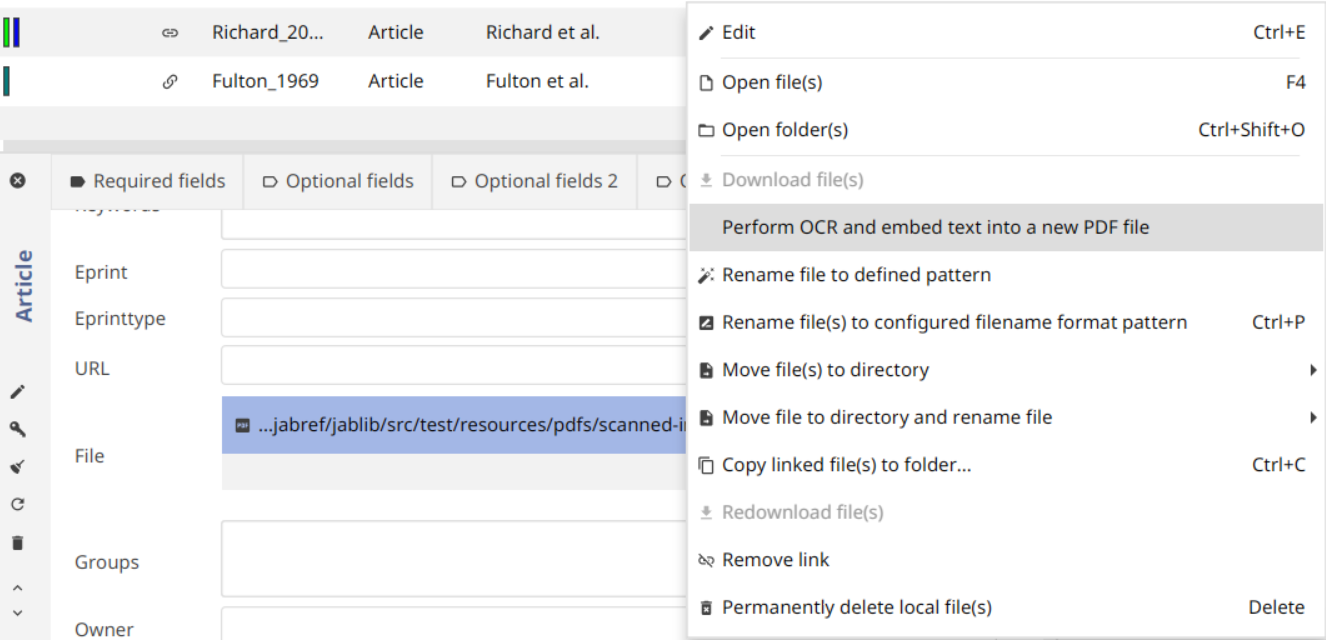
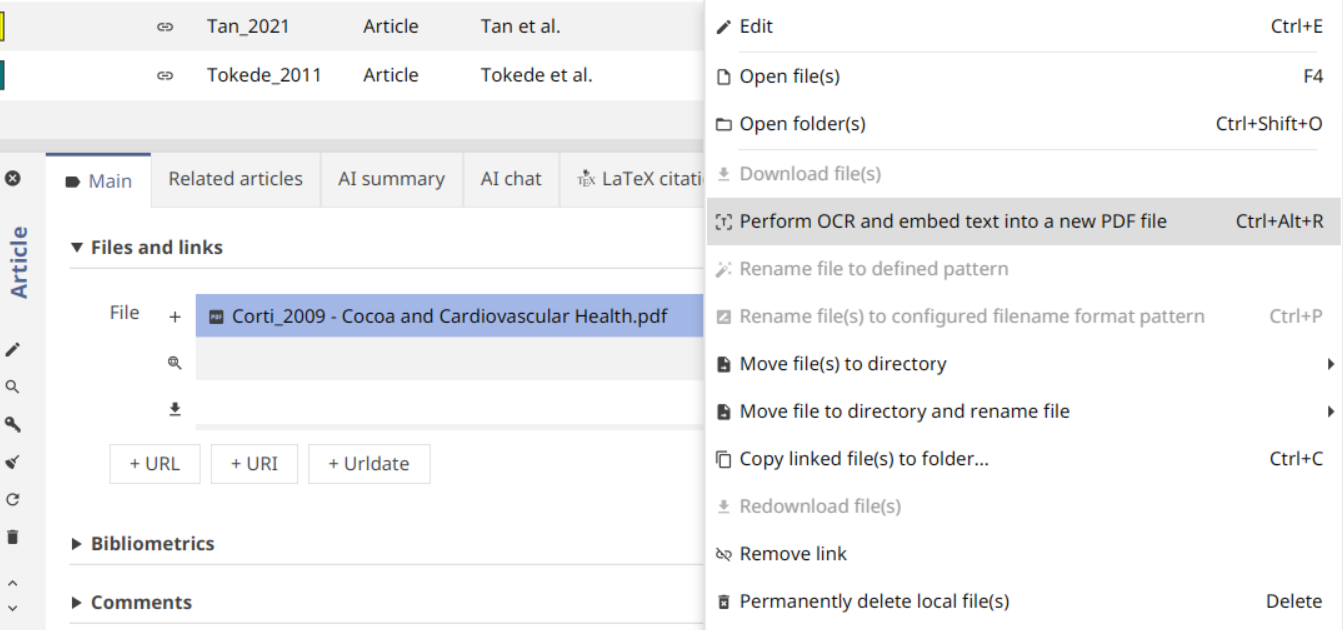
Add Partially scanned PDFs preferences section and OCR shortcut

diff --git a/en/advanced/OCR.md b/en/advanced/OCR.md
@@ -12,22 +12,36 @@
 OCRmyPDF must be installed on your system to use this feature.
 {% endhint %}
 
-1. Open JabRef and select the entry with the scanned PDF you want to OCR.
-2. Open the General Tab of the Entry Editor.
-3. Right-click on the File and select "Perform OCR and embed text into new PDF file". ![perform-ocr.png](../.gitbook/assets/perform-ocr.png)
+1. Open JabRef and select the entry with the PDFs you want to OCR.
+2. Scroll down the Main Tab of the Entry Editor till reach the Files and Links section.
+3. Right-click on the File and select "Perform OCR and embed text into new PDF file", or select the file and use the shortcut `Ctrl+Shift+R`. ![Perform OCR](../.gitbook/assets/perform-ocr.png)
 
 * After performing OCR, JabRef creates a new PDF file with the OCR text embedded, and it will be linked to all the entries that have the old file linked to them. The original scanned PDF will remain unchanged.
 
-    ![original-and-ocred-files.png](../.gitbook/assets/original-and-ocred-files.png)
+    ![Original and OCRed files](../.gitbook/assets/original-and-ocred-files.png)
+
 * Now you can select and search text in the new PDF file.
 
-    ![comparison-between-original-and-ocred-file.png](../.gitbook/assets/comparison-between-original-and-ocred-file.png)
+    ![Comparison between original and OCRed file](../.gitbook/assets/comparison-between-original-and-ocred-file.png)
 
 ## OCR Preferences
 
 * The OCR preferences can be accessed via **File → Preferences → OCR**.
 
-    ![ocr-preferences.png](../.gitbook/assets/ocr-preferences.png)
+    ![OCR preferences](../.gitbook/assets/ocr-preferences.png)
+
+### Partially scanned PDFs
+
+* Some PDFs may contain a mix of scanned pages and pages with embedded text.
+* In such cases, you will have three options:
+
+1. You can choose to perform OCR only on the scanned pages(Skip pages with text).
+2. Force OCR on all pages(Overwrite text in pages containing text).
+3. Redo OCR for pages containing OCR text(Redo text in pages containing OCRed text).
+
+* This can be configured in Partially scanned PDFs section in the OCR preferences.
+
+    ![OCR options for partially scanned PDFs](../.gitbook/assets/ocr-options-for-partially-scanned-pdfs.png)
 
 ### Engine Path
 
@@ -41,13 +55,15 @@ Performing OCR will fail if wrong engine path is provided, make sure that the co
 
 1. **Type the path manually**: Enter the path directly into the text field. This can be a bare command name (e.g. `ocrmypdf` or `python -m ocrmypdf`) if it is available on your system PATH, or a full absolute path to the executable (e.g. `/home/user/.local/bin/ocrmypdf`).
 
-    ![text-field-for-engine-path.png](../.gitbook/assets/text-field-for-engine-path.png)
+    ![Text field for engine path](../.gitbook/assets/text-field-for-engine-path.png)
+
 2. **Browse**: Click the folder icon to open a file chooser and navigate to the OCRmyPDF executable on your system.
 
-    ![browse-engine-path-button.png](../.gitbook/assets/browse-engine-path-button.png)
+    ![Browse engine path button](../.gitbook/assets/browse-engine-path-button.png)
+
 3. **Auto-detect**: Click the magnifier icon to have JabRef automatically search for a working OCRmyPDF installation. JabRef will try the following commands in order and use the first one that works:
 
-    ![auto-detect-engine-path-button.png](../.gitbook/assets/auto-detect-engine-path-button.png)
+    ![Auto-detect engine path button](../.gitbook/assets/auto-detect-engine-path-button.png)
 
     1. `ocrmypdf`
     2. `python -m ocrmypdf`